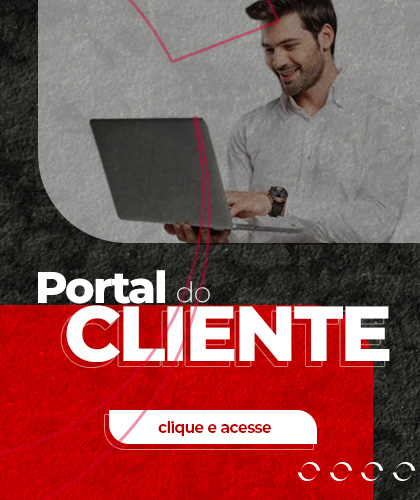
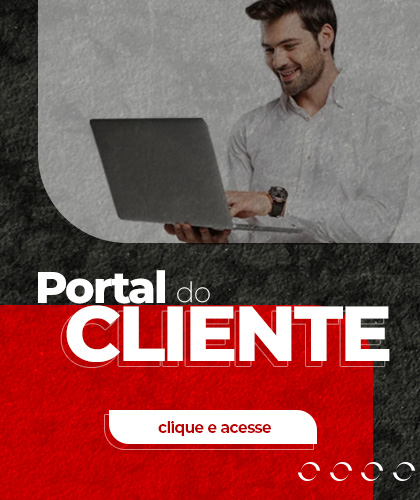
ajustes

diff --git a/src/assets/componentes/SliderBannerPrincipal/slider.tsx b/src/assets/componentes/SliderBannerPrincipal/slider.tsx
@@ -4,7 +4,7 @@ import styles from './slider.module.css';
 import useIsMobile from '../../hooks/useIsMobile';
 
 const banners = [
-  { id: 1, img: '/imagens/sliderBannerPrincipal/entregaRapida.jpg', alt: 'Banner 1' },
+  { id: 1, img: '/imagens/sliderBannerPrincipal/PortalCliente.jpg', alt: 'Banner 1' },
   { id: 2, img: '/imagens/sliderBannerPrincipal/CTF.jpg', alt: 'Banner 2' },
   { id: 3, img: '/imagens/sliderBannerPrincipal/entregaRapida.jpg', alt: 'Banner 3' },
   { id: 4, img: '/imagens/sliderBannerPrincipal/boletosFalsos.jpg', alt: 'Banner 4' },
@@ -13,7 +13,7 @@ const banners = [
 const bannersMobile = [
   { id: 1, img: '/imagens/sliderBannerPrincipal/entregaRapidaMobile.jpg', alt: 'Banner 1' },
   { id: 2, img: '/imagens/sliderBannerPrincipal/CTFMobile.jpg', alt: 'Banner 2' },
-  { id: 3, img: '/imagens/sliderBannerPrincipal/entregaRapida.jpg', alt: 'Banner 3' },
+  { id: 3, img: '/imagens/sliderBannerPrincipal/boletosFalsosMobile.jpg' },
   { id: 4, img: '/imagens/sliderBannerPrincipal/portalClienteMobile.jpg', alt: 'Banner 4' },
 ];
 
